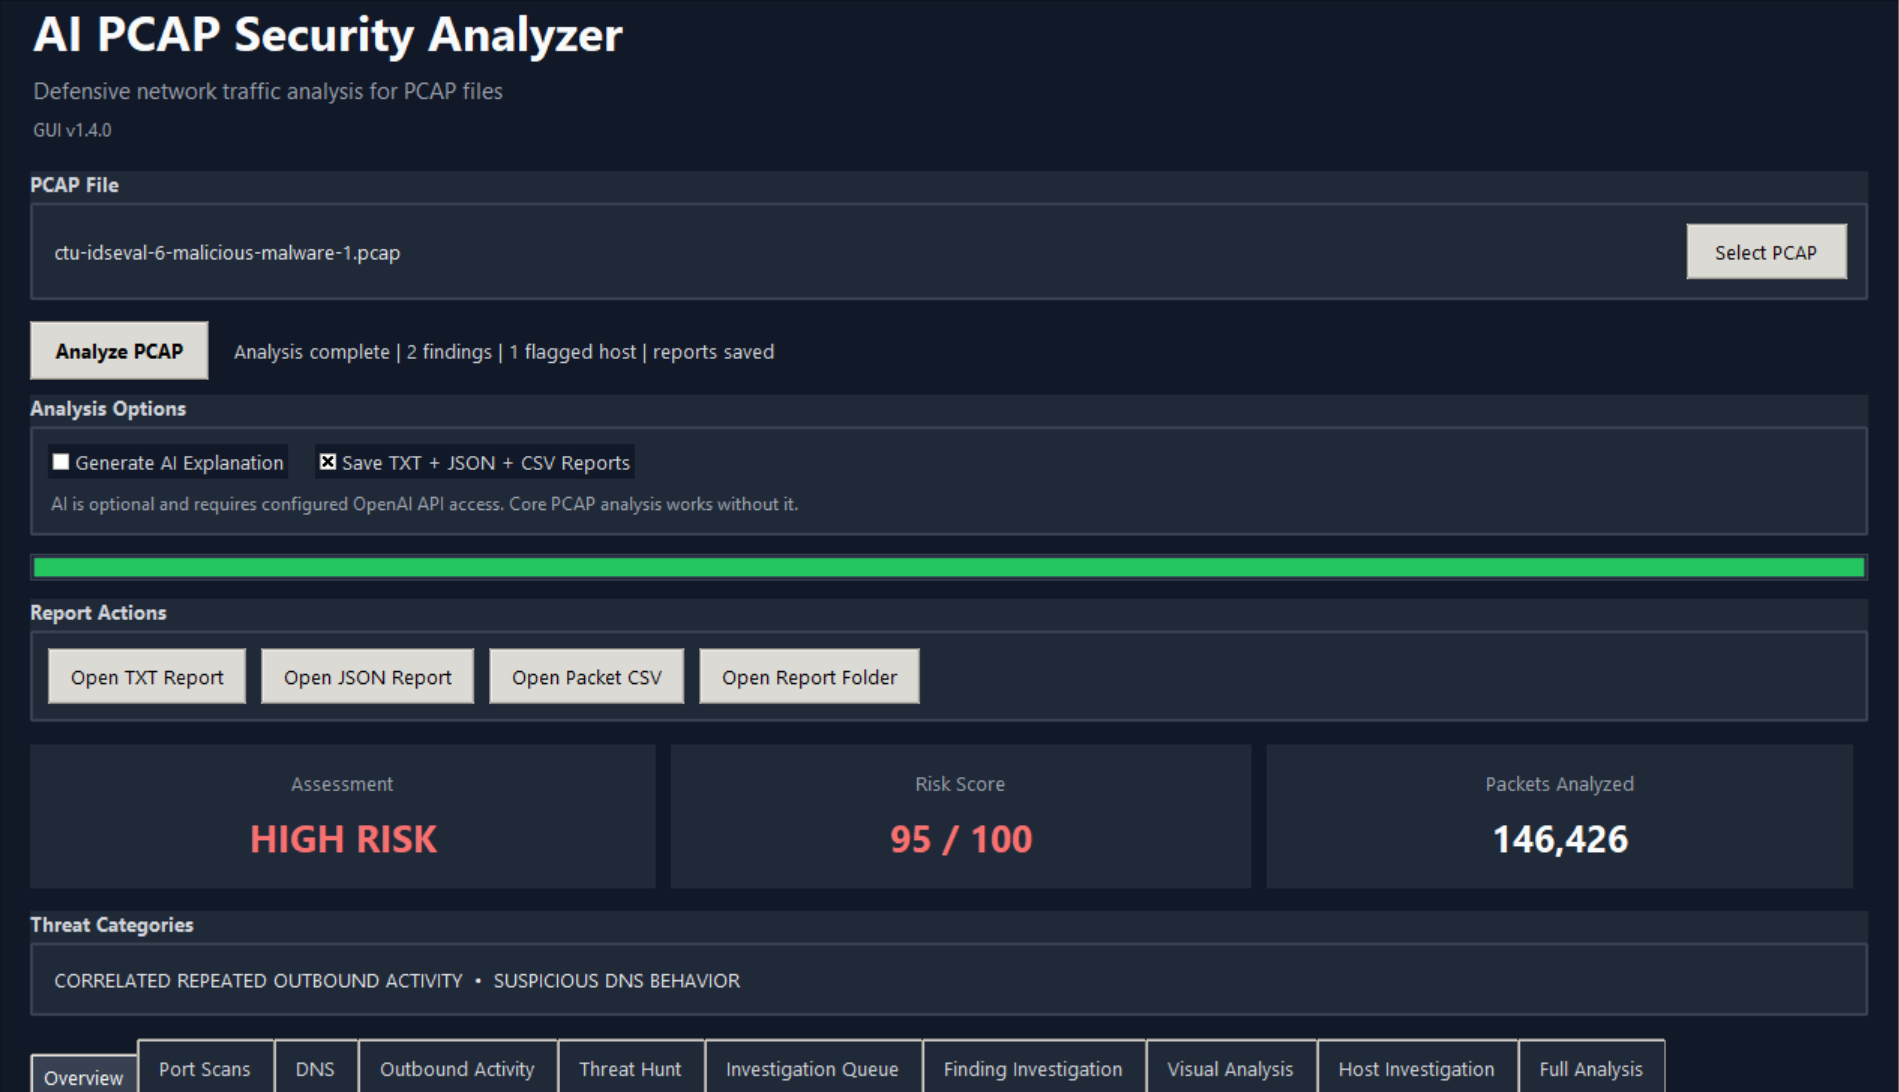
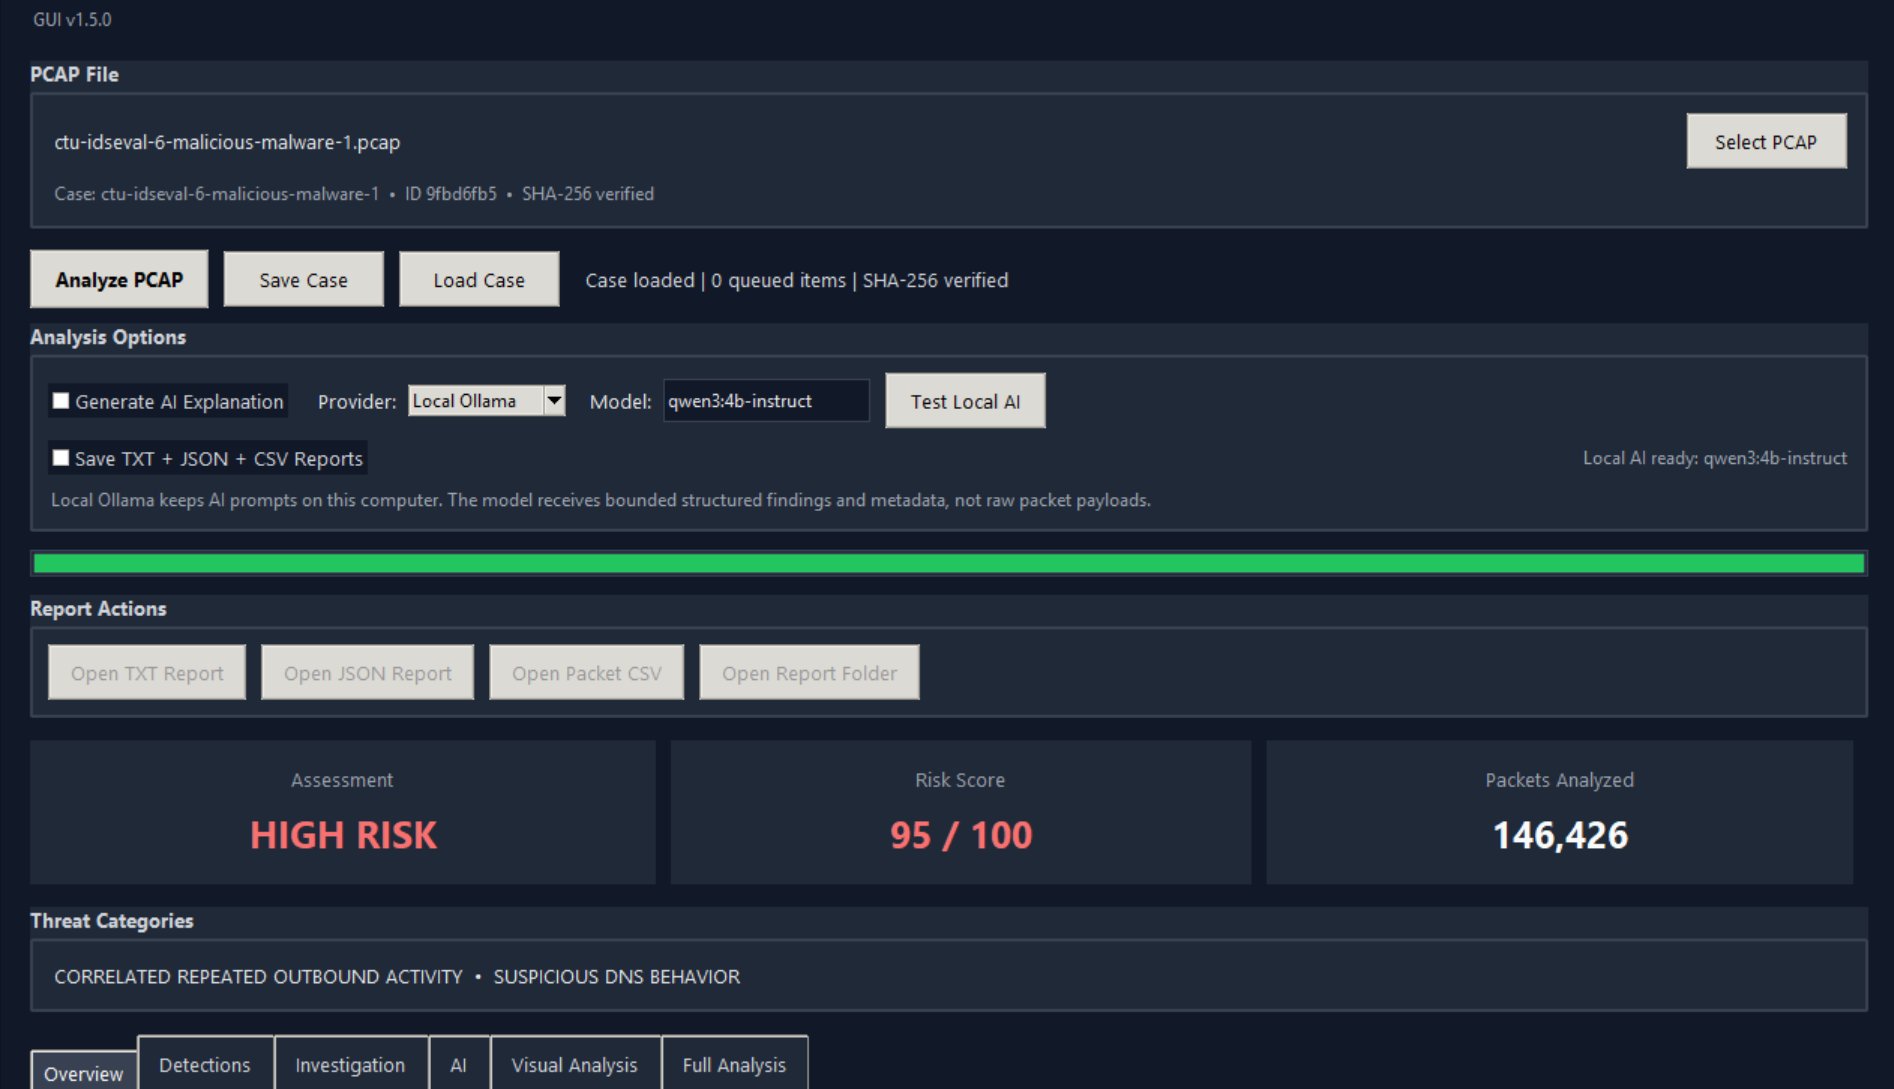
Add v1.5 screenshots and README references

diff --git a/README.md b/README.md
@@ -154,6 +154,8 @@ When the original PCAP is still available, the GUI can compare its current SHA-2
 
 Saved case files are excluded from Git tracking by the project's `.gitignore`.
 
+![Saved investigation case](docs/screenshots/saved-case.png)
+
 ### Finding Investigation
 
 Structured security findings are assigned identifiers such as:
@@ -247,6 +249,8 @@ Indicators can be exported together as JSON and CSV.
 
 The project intentionally calls these **Indicators of Interest** rather than automatically labeling them Indicators of Compromise. A value appearing in this workspace does not prove that it is malicious or that a system is compromised.
 
+![Indicators of Interest](docs/screenshots/indicators-of-interest.png)
+
 ### MITRE ATT&CK Mapping
 
 Version 1.5 adds conservative MITRE ATT&CK references to supported findings.
@@ -260,6 +264,8 @@ The current mapping is:
 Finding Investigation includes an **Open MITRE ATT&CK** button that opens the official technique reference.
 
 The analyzer does not force ATT&CK mappings onto findings when the available evidence does not support a specific technique. ATT&CK mappings describe observed behavior and do not prove compromise, attribution, or malicious intent.
+
+![Finding AI and MITRE ATT&CK](docs/screenshots/ai-finding-mitre.png)
 
 ### Cross-Linked Navigation
 
@@ -336,6 +342,8 @@ Defensive Next Steps
 ```
 
 The summary can be stored in a saved investigation case and restored later without regenerating it.
+
+![AI Investigation Summary](docs/screenshots/ai-investigation-summary.png)
 
 ### Optional OpenAI API
 
